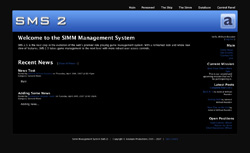
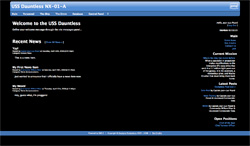
removing SMS_Lcars from the install and updating the default and cobalt preview images

diff --git a/install/resource_data.php b/install/resource_data.php
@@ -10,7 +10,7 @@ File: install/resource_data.php
 Purpose: Installation resource file that contains the database data
 
 System Version: 2.6.0
-Last Modified: 2008-07-15 1808 EST
+Last Modified: 2008-07-18 1744 EST
 **/
 
 /* insert data into the access levels table */
@@ -41,7 +41,7 @@ VALUES (1, 1, 1, 'Command', 'The Command department is ultimately responsible fo
 
 /* insert data into the globals table */
 mysql_query( "INSERT INTO `sms_globals` (`globalid`, `shipPrefix`, `shipName`, `shipRegistry`, `skin`, `allowedSkins`, `allowedRanks`, `fleet`, `fleetURL`, `tfMember`, `tfName`, `tfURL`, `tgMember`, `tgName`, `tgURL`, `hasWebmaster`, `webmasterName`, `webmasterEmail`, `showNews`, `showNewsNum`, `simmYear`, `rankSet`, `simmType`, `postCountDefault`, `manifest_defaults`, `useSamplePost`, `logList`, `bioShowPosts`, `bioShowLogs`, `bioShowPostsNum`, `bioShowLogsNum`, `jpCount`, `usePosting`, `useMissionNotes` ) 
-VALUES (1, '', '', '', 'default', 'default,cobalt,SMS_Lcars', 'default,dress', '', '', 'n', '', '', 'n', '', '', 'n', '', '', 'y', 3, '2384', 'default', 'ship', '14', '$(\'tr.active\').show();,$(\'tr.npc\').show();', 'y', 20, 'y', 'y', 5, 5, 'y', 'y', 'y' );" );
+VALUES (1, '', '', '', 'default', 'default,cobalt', 'default,dress', '', '', 'n', '', '', 'n', '', '', 'n', '', '', 'y', 3, '2384', 'default', 'ship', '14', '$(\'tr.active\').show();,$(\'tr.npc\').show();', 'y', 20, 'y', 'y', 5, 5, 'y', 'y', 'y' );" );
 
 /* populate the menu items table */
 mysql_query( "INSERT INTO `sms_menu_items` ( `menuid`, `menuGroup`, `menuOrder`, `menuTitle`, `menuLinkType`, `menuLink`, `menuAccess`, `menuMainSec`, `menuLogin`, `menuCat` )
